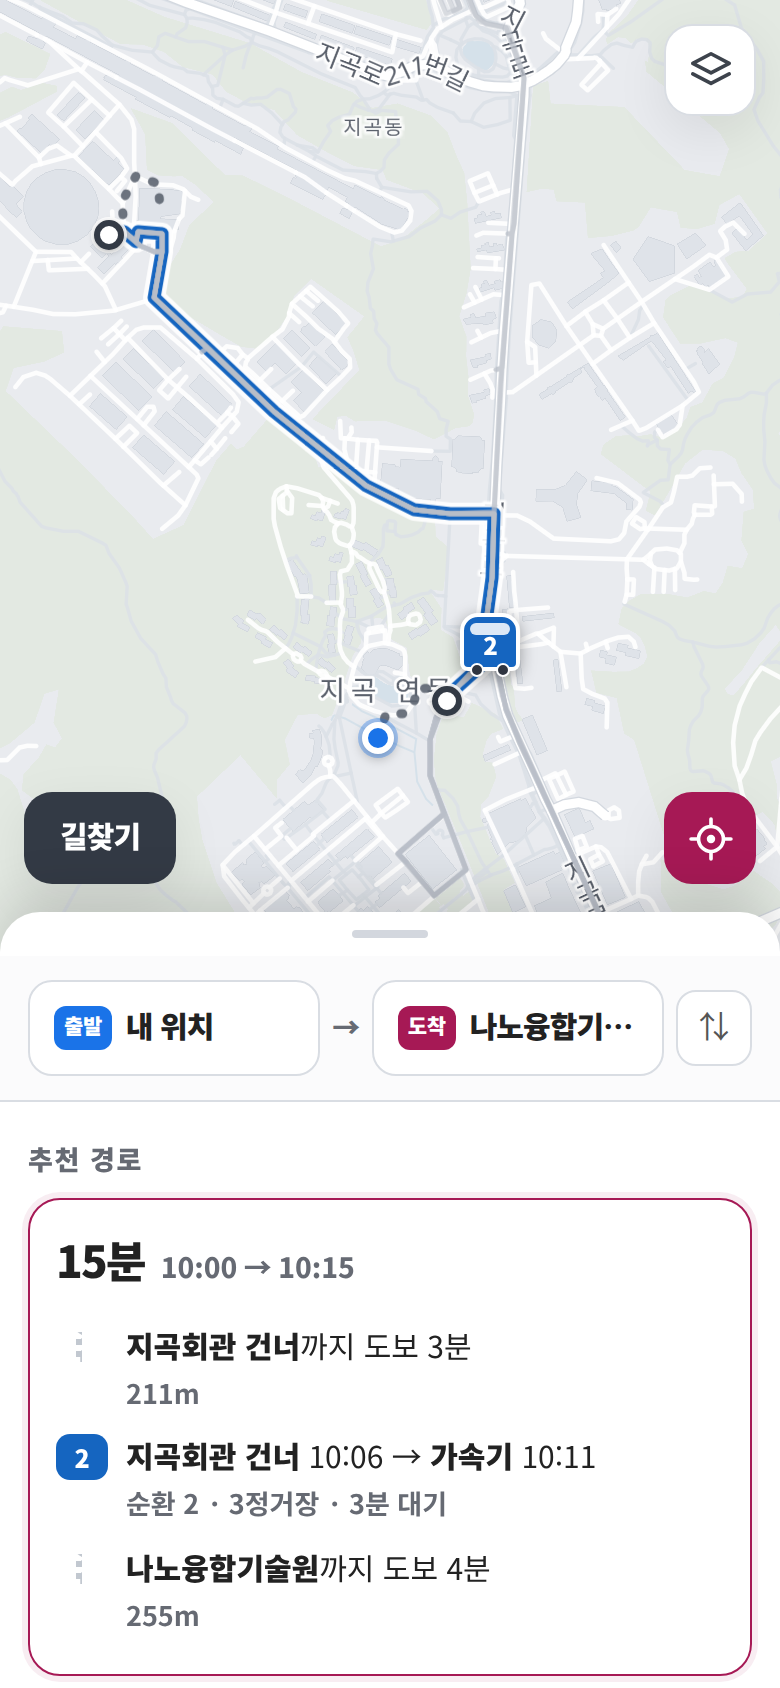
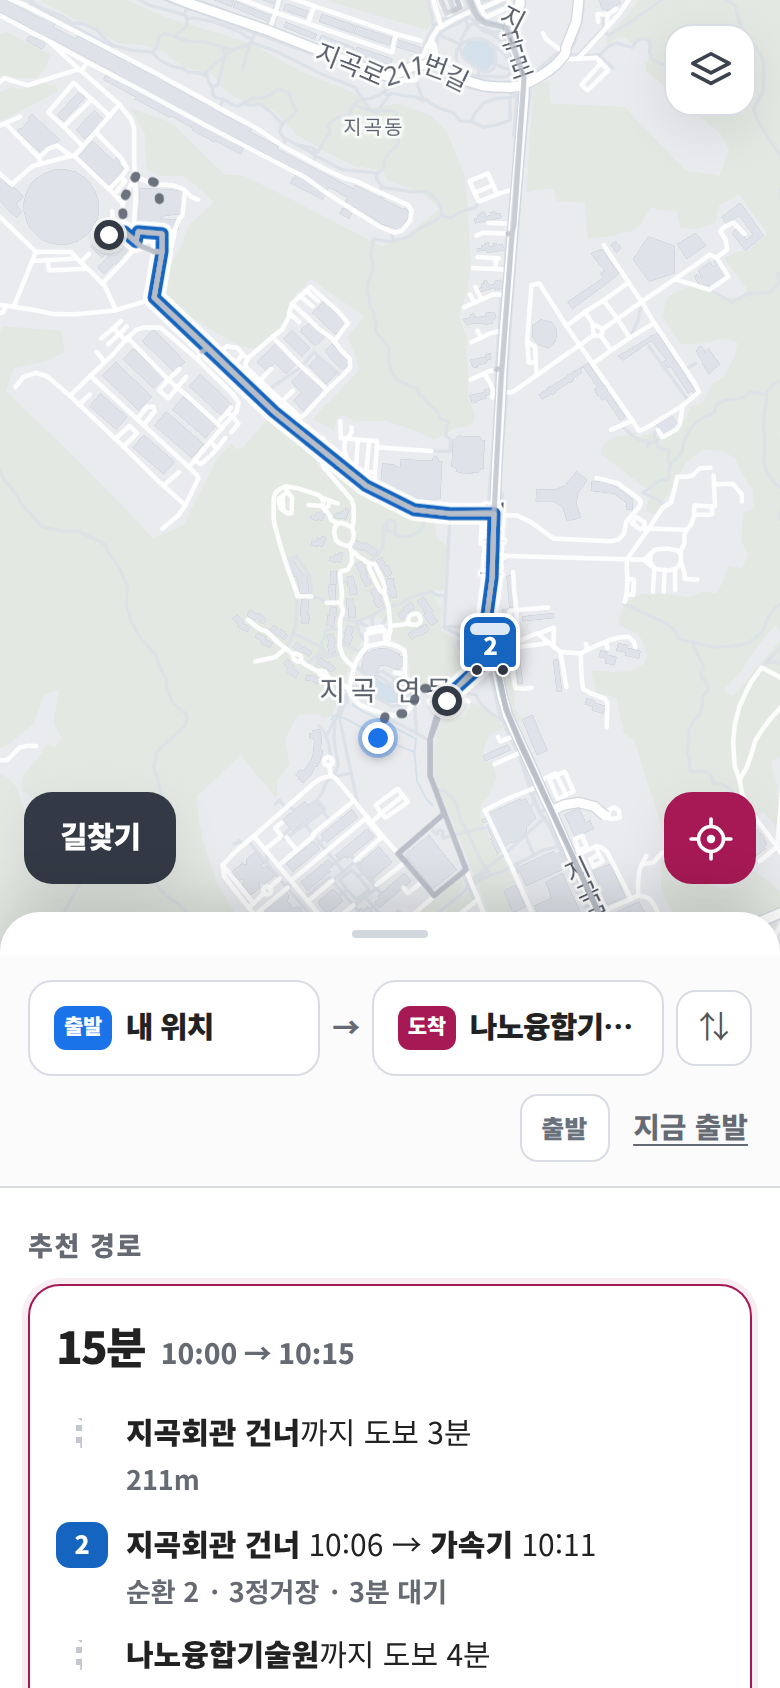
출발 시각을 길찾기 내내 보이게, 안내 중에는 출발·도착 표지를 감춤
출발 시각 줄이 입력 폼 안에 있어서, 결과가 나와 폼이 접히면 사라졌다. 폼
밖으로 빼서 길찾기를 하는 동안에는 계속 보이게 했다. 결과를 보면서 시각을
바로 바꿀 수도 있다. 길찾기를 닫으면 시각이 현재로 돌아가며 함께 사라진다.

경로를 안내하는 중에는 정류장을 눌러도 "출발·도착" 표지를 띄우지 않는다.
이미 정해진 상태라 그 자리에서 다시 찍을 일이 없다. 지도 길게 누르기도
마찬가지다. 고치려면 요약 줄의 출발지·도착지를 누른다.

Claude-Session: https://claude.ai/code/session_01R7J8xzKq3og93Ay3cGsHuE

diff --git a/index.html b/index.html
@@ -210,7 +210,7 @@ button{cursor:pointer}
 .trip-summary .arrow{flex:0 0 auto;color:var(--muted);font-weight:900;font-size:14px}
 
 /* 출발 시각 */
-.trip-when{display:flex;align-items:center;justify-content:flex-end;gap:10px;margin-top:2px}
+.trip-when{display:flex;align-items:center;justify-content:flex-end;gap:10px;margin-top:8px}
 .trip-when .mode{
   border:1px solid var(--line);border-radius:9px;padding:6px 10px;
   background:#fff;color:#69717d;font-size:12.5px;font-weight:900;text-decoration:none;
@@ -617,11 +617,11 @@ body.sheet-full .mapbtns{opacity:0;pointer-events:none;transition:opacity .15s}
         <button class="mini" id="btnSwap" title="출발·도착 바꾸기" aria-label="출발·도착 바꾸기">⇅</button>
       </div>
       <div class="suggest" id="suggest" role="listbox" aria-label="검색 결과"></div>
-      <div class="trip-when">
-        <button id="btnMode" class="mode" aria-label="출발·도착 기준 바꾸기">출발</button>
-        <button id="btnWhen">지금 출발</button>
-        <input type="time" id="whenTime" hidden aria-label="시각">
-      </div>
+    </div>
+    <div class="trip-when">
+      <button id="btnMode" class="mode" aria-label="출발·도착 기준 바꾸기">출발</button>
+      <button id="btnWhen">지금 출발</button>
+      <input type="time" id="whenTime" hidden aria-label="시각">
     </div>
   </div>
   <div class="filters" id="filters" role="group" aria-label="노선 선택"></div>

diff --git a/map.js b/map.js
@@ -469,7 +469,13 @@ function drawStops() {
     }).addTo(layerStops);
     m.getElement()?.setAttribute('aria-label', stopLabel(s.name));
     m.getElement()?.setAttribute('role', 'button');
-    m.on('click', () => { selectStop(s.name); pointActions(s.ll, stopLabel(s.name)); });
+    m.on('click', () => {
+      // 경로를 안내하는 중에는 출발·도착이 이미 정해져 있다. 그 자리에서
+      // 다시 찍을 일이 없으므로 표지를 띄우지 않는다.
+      if (guiding()) return;
+      selectStop(s.name);
+      pointActions(s.ll, stopLabel(s.name));
+    });
     m.bindTooltip(stopLabel(s.name), { direction: 'right', offset: [10, 0] });
     m.on('dragend', e => {
       const only = s.members[0];
@@ -1379,7 +1385,7 @@ function pointActions(ll, label) {
 }
 
 /* 지도 길게 누르기 (터치) 와 오른쪽 클릭 모두 contextmenu 로 들어온다 */
-map.on('contextmenu', e => pointActions(e.latlng, T.mapPoint));
+map.on('contextmenu', e => { if (!guiding()) pointActions(e.latlng, T.mapPoint); });
 
 function runTrip() {
   if (!tripFrom || !tripTo) { tripPlans = []; collapseForm(false); layerTrip.clearLayers(); render(); return; }

diff --git a/sw.js b/sw.js
@@ -7,7 +7,7 @@
  * 오프라인으로 동작한다. 캠퍼스 실내나 신호가 약한 곳에서 쓸모가 있다.
  * ------------------------------------------------------------------ */
 
-const VERSION = 'afd43fa69360';
+const VERSION = '63a12f49c6f3';
 const SHELL = `shuttle-shell-${VERSION}`;
 const TILES = 'shuttle-tiles';
 const TILE_LIMIT = 600;
